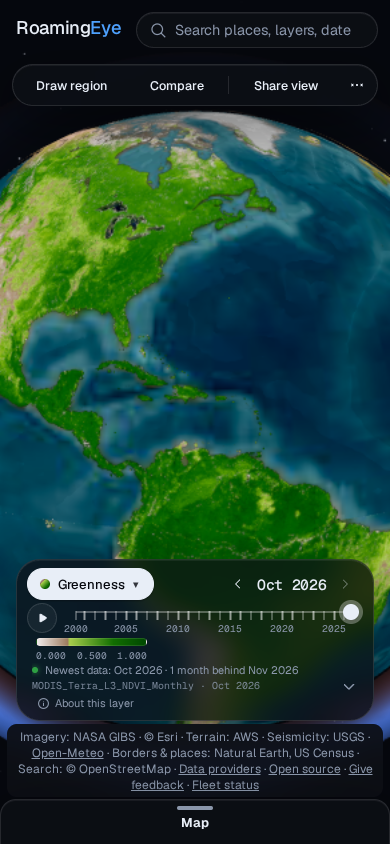
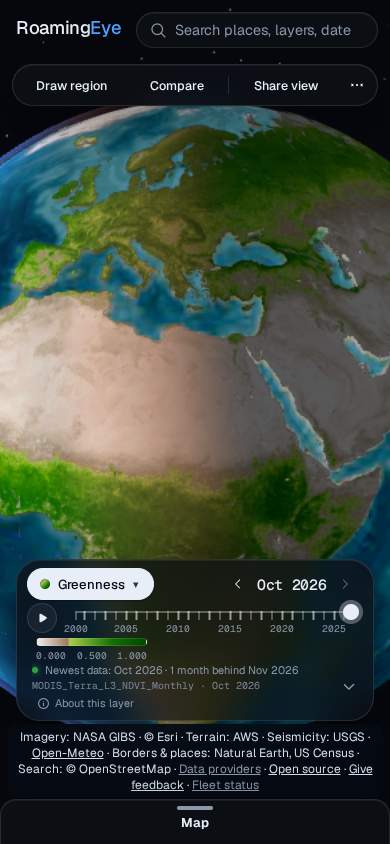
Keep the night side dark and seat the limb on the globe.
Twilight was a flat add, so on a dark green it encoded brighter than noon.
It now scales with the albedo, and the science night floor is the linear
value that reads as about 40% after sRGB, with a cool tint. The atmosphere
is a tight front shell using the view-ray fresnel, so the glow sits on the
limb. Black Marble is the sphere emissive map and only shows at night. The
credits use a dark plate because the canvas is space in both themes.

diff --git a/src/lib/realLight.ts b/src/lib/realLight.ts
@@ -18,13 +18,17 @@ export interface RgbUnit {
 /** Night side brightness as a fraction of the day-side albedo. Satellite base. */
 export const NIGHT_FLOOR = 0.25;
 /**
- * Gentler floor for a colormap. Dark enough that day and night read at a
- * glance, light enough that the ramp is still a ramp. The probe never uses it.
+ * Linear night floor for a colormap. 0.16 encodes to about 40% of the day
+ * side in sRGB, which is what a screenshot reads as. The probe never uses it.
  */
-export const SCIENCE_NIGHT_FLOOR = 0.4;
-/** Soft terminator, in ndotl. Below the low edge is night; above the high edge is day. */
-export const TERMINATOR_LO = -0.15;
-export const TERMINATOR_HI = 0.2;
+export const SCIENCE_NIGHT_FLOOR = 0.16;
+/**
+ * Soft terminator, in ndotl. About fifteen degrees of solar zenith, so the
+ * edge is a gradient rather than a cut. Below the low edge is night; above
+ * the high edge is day.
+ */
+export const TERMINATOR_LO = -0.22;
+export const TERMINATOR_HI = 0.32;
 /** Warm band around the terminator, in ndotl. */
 export const TWILIGHT_LO = -0.28;
 export const TWILIGHT_PEAK_LO = -0.04;
@@ -32,6 +36,8 @@ export const TWILIGHT_PEAK_HI = 0.04;
 export const TWILIGHT_HI = 0.22;
 export const TWILIGHT_COLOR: RgbUnit = { r: 1, g: 0.42, b: 0.16 };
 export const TWILIGHT_GAIN = 0.38;
+/** Night side of a colormap, slightly blue so it reads as shadow not fog. */
+export const NIGHT_TINT: RgbUnit = { r: 0.78, g: 0.88, b: 1 };
 /** Ocean glint. Thresholds are on linear albedo, matching the shader. */
 export const WATER_LUMA_LO = 0.05;
 export const WATER_LUMA_HI = 0.28;
@@ -70,6 +76,8 @@ export interface ShadeInput {
   nightLights?: RgbUnit;
   /** Defaults to the satellite floor. Science passes the gentler one. */
   nightFloor?: number;
+  /** Cool the night side. Science turns this on. Satellite imagery does not. */
+  coolNight?: boolean;
 }
 
 /**
@@ -85,9 +93,14 @@ export function displayRgb(
   const floor = input.nightFloor ?? NIGHT_FLOOR;
   const shade = floor + (1 - floor) * day;
   const lights = input.nightLights ?? { r: 0, g: 0, b: 0 };
+  const tint = (channel: number) =>
+    input.coolNight ? channel + (1 - channel) * day : 1;
   const twilight =
     smoothstep(TWILIGHT_LO, TWILIGHT_PEAK_LO, input.nDotL) *
     (1 - smoothstep(TWILIGHT_PEAK_HI, TWILIGHT_HI, input.nDotL));
+  // Scale the warm add by the albedo. A flat add of twilight on a dark
+  // colormap is brighter than noon once sRGB encodes it.
+  const twScale = Math.max(albedo.r, albedo.g, albedo.b);
   const glintOn = input.glint ?? 0;
   const spec =
     Math.pow(Math.max(input.nDotH ?? 0, 0), GLINT_POWER) *
@@ -98,20 +111,20 @@ export function displayRgb(
   const emissive = (input.nightEmissive ?? 0) * (1 - day);
   return {
     r:
-      albedo.r * shade +
-      TWILIGHT_COLOR.r * twilight * TWILIGHT_GAIN +
+      albedo.r * shade * tint(NIGHT_TINT.r) +
+      TWILIGHT_COLOR.r * twilight * TWILIGHT_GAIN * twScale +
       GLINT_COLOR.r * spec +
       emissive +
       lights.r * (1 - day),
     g:
-      albedo.g * shade +
-      TWILIGHT_COLOR.g * twilight * TWILIGHT_GAIN +
+      albedo.g * shade * tint(NIGHT_TINT.g) +
+      TWILIGHT_COLOR.g * twilight * TWILIGHT_GAIN * twScale +
       GLINT_COLOR.g * spec +
       0.93 * emissive +
       lights.g * (1 - day),
     b:
-      albedo.b * shade +
-      TWILIGHT_COLOR.b * twilight * TWILIGHT_GAIN +
+      albedo.b * shade * tint(NIGHT_TINT.b) +
+      TWILIGHT_COLOR.b * twilight * TWILIGHT_GAIN * twScale +
       GLINT_COLOR.b * spec +
       0.78 * emissive +
       lights.b * (1 - day),
@@ -123,16 +136,19 @@ export function realLightGlsl(): string {
   return /* glsl */ `
 const float RE_NIGHT_FLOOR = ${NIGHT_FLOOR};
 const float RE_SCIENCE_FLOOR = ${SCIENCE_NIGHT_FLOOR};
-vec3 reShade(vec3 albedo, vec3 sunWorld, float glintOn, float emissive, float nightFloor, vec3 nightLights, vec3 nrm, vec3 viewPos) {
+vec3 reShade(vec3 albedo, vec3 sunWorld, float glintOn, float emissive, float nightFloor, float coolNight, vec3 nightLights, vec3 nrm, vec3 viewPos) {
   vec3 sunV = normalize((viewMatrix * vec4(sunWorld, 0.0)).xyz);
   vec3 n = normalize(nrm);
   float ndl = dot(n, sunV);
   float day = smoothstep(${TERMINATOR_LO}, ${TERMINATOR_HI}, ndl);
   float shade = mix(nightFloor, 1.0, day);
+  vec3 tint = vec3(1.0);
+  if (coolNight > 0.5) tint = mix(vec3(${NIGHT_TINT.r}, ${NIGHT_TINT.g}, ${NIGHT_TINT.b}), vec3(1.0), day);
   float tw = smoothstep(${TWILIGHT_LO}, ${TWILIGHT_PEAK_LO}, ndl)
     * (1.0 - smoothstep(${TWILIGHT_PEAK_HI}, ${TWILIGHT_HI}, ndl));
-  vec3 color = albedo * shade;
-  color += vec3(${TWILIGHT_COLOR.r}, ${TWILIGHT_COLOR.g}, ${TWILIGHT_COLOR.b}) * tw * ${TWILIGHT_GAIN};
+  float twScale = max(albedo.r, max(albedo.g, albedo.b));
+  vec3 color = albedo * shade * tint;
+  color += vec3(${TWILIGHT_COLOR.r}, ${TWILIGHT_COLOR.g}, ${TWILIGHT_COLOR.b}) * tw * ${TWILIGHT_GAIN} * twScale;
   float luma = dot(albedo, vec3(0.2126, 0.7152, 0.0722));
   float blue = albedo.b - max(albedo.r, albedo.g);
   float water = (1.0 - smoothstep(${WATER_LUMA_LO}, ${WATER_LUMA_HI}, luma))

diff --git a/src/scene/realEarthMaterial.ts b/src/scene/realEarthMaterial.ts
@@ -133,12 +133,12 @@ if (uRealLight > 0.5) {
   if (reImageryCover <= 0.0 && reScienceCover <= 0.0) {
     imagery = diffuseColor.rgb;
   }
-  vec3 lit = reShade(imagery, uSunImagery, 1.0, uNightEmissive, RE_NIGHT_FLOOR, vec3(0.0), normal, vViewPosition);
+  vec3 lit = reShade(imagery, uSunImagery, 1.0, uNightEmissive, RE_NIGHT_FLOOR, 0.0, vec3(0.0), normal, vViewPosition);
   vec3 outc = lit;
   if (reScienceCover > 0.001) {
     vec3 sci = reScienceStraight / max(reScienceCover, 0.001);
     if (uScienceLight > 0.5) {
-      sci = reShade(sci, uSunScience, 0.0, 0.0, RE_SCIENCE_FLOOR, vec3(0.0), normal, vViewPosition);
+      sci = reShade(sci, uSunScience, 0.0, 0.0, RE_SCIENCE_FLOOR, 1.0, vec3(0.0), normal, vViewPosition);
     }
     outc = sci * reScienceCover + lit * (1.0 - reScienceCover);
   }
@@ -150,11 +150,10 @@ if (uRealLight > 0.5) {
 const SCIENCE_LIGHT = /* glsl */ `
 if (uRealLight > 0.5) {
   if (uScienceLight > 0.5) {
-    vec3 nightLights = vec3(0.0);
-    #ifdef USE_UV
-      if (uHasNight > 0.5) nightLights = texture2D(uNightMap, vMapUv).rgb * 1.8;
-    #endif
-    outgoingLight = reShade(diffuseColor.rgb, uSunScience, 0.0, 0.0, RE_SCIENCE_FLOOR, nightLights, normal, vViewPosition);
+    vec3 nightLights = totalEmissiveRadiance;
+    float city = smoothstep(0.05, 0.35, max(nightLights.r, max(nightLights.g, nightLights.b)));
+    nightLights *= city * 4.0;
+    outgoingLight = reShade(diffuseColor.rgb, uSunScience, 0.0, 0.0, RE_SCIENCE_FLOOR, 1.0, nightLights, normal, vViewPosition);
   } else {
     outgoingLight = diffuseColor.rgb;
   }
@@ -238,7 +237,7 @@ if (uRealLight > 0.5) {
   if (uScienceLight > 0.5) {
     vec3 nrm = normalize(mat3(viewMatrix) * normalize(vReWorld));
     vec3 viewPos = -(viewMatrix * vec4(vReWorld, 1.0)).xyz;
-    outgoingLight = reShade(diffuseColor.rgb, uSunScience, 0.0, 0.0, RE_SCIENCE_FLOOR, vec3(0.0), nrm, viewPos);
+    outgoingLight = reShade(diffuseColor.rgb, uSunScience, 0.0, 0.0, RE_SCIENCE_FLOOR, 1.0, vec3(0.0), nrm, viewPos);
   } else {
     outgoingLight = diffuseColor.rgb;
   }

diff --git a/src/lib/realLight.test.ts b/src/lib/realLight.test.ts
@@ -45,6 +45,50 @@ describe("displayRgb", () => {
     expect(noon).toEqual(albedo);
   });
 
+  it("spreads the terminator over a soft band", () => {
+    const green = { r: 0.05, g: 0.12, b: 0.02 };
+    const lum = (c: { r: number; g: number; b: number }) =>
+      0.2126 * c.r + 0.7152 * c.g + 0.0722 * c.b;
+    const steps = [-0.3, -0.1, 0.05, 0.2, 0.45].map((nDotL) =>
+      lum(
+        displayRgb(green, "shaded", {
+          nDotL,
+          nightFloor: SCIENCE_NIGHT_FLOOR,
+          coolNight: true,
+        })
+      )
+    );
+    for (let i = 1; i < steps.length; i++) {
+      expect(steps[i]).toBeGreaterThan(steps[i - 1]);
+    }
+  });
+
+  it("keeps a dark green darker at night and at the twilight band", () => {
+    const green = { r: 0.05, g: 0.12, b: 0.02 };
+    const lum = (c: { r: number; g: number; b: number }) =>
+      0.2126 * c.r + 0.7152 * c.g + 0.0722 * c.b;
+    const day = displayRgb(green, "shaded", {
+      nDotL: 1,
+      nightFloor: SCIENCE_NIGHT_FLOOR,
+      coolNight: true,
+    });
+    const night = displayRgb(green, "shaded", {
+      nDotL: -1,
+      nightFloor: SCIENCE_NIGHT_FLOOR,
+      coolNight: true,
+    });
+    const twilight = displayRgb(green, "shaded", {
+      nDotL: 0,
+      nightFloor: SCIENCE_NIGHT_FLOOR,
+      coolNight: true,
+    });
+    expect(lum(night)).toBeCloseTo(lum(green) * SCIENCE_NIGHT_FLOOR, 1);
+    expect(lum(night)).toBeLessThan(lum(day) * 0.55);
+    expect(lum(twilight)).toBeLessThan(lum(day));
+    expect(night.b / night.g).toBeGreaterThan(day.b / day.g);
+    expect(twilight.r).toBeGreaterThan(twilight.b);
+  });
+
   it("warms the terminator", () => {
     const gray = { r: 0.4, g: 0.4, b: 0.4 };
     const twilight = displayRgb(gray, "shaded", { nDotL: 0, glint: 0 });

diff --git a/src/scene/Sky.ts b/src/scene/Sky.ts
@@ -1,8 +1,8 @@
 import {
   AdditiveBlending,
-  BackSide,
   BufferAttribute,
   BufferGeometry,
+  FrontSide,
   Points,
   ShaderMaterial,
   Vector3,
@@ -57,10 +57,11 @@ const ATMOSPHERE_VERTEX = /* glsl */ `
   varying float vSun;
   uniform vec3 uSun;
   void main() {
-    vec3 radial = normalize(position);
-    vRim = 1.0 - abs(dot(radial, normalize(cameraPosition)));
-    vSun = dot(radial, normalize(uSun));
-    gl_Position = projectionMatrix * modelViewMatrix * vec4(position, 1.0);
+    vec3 n = normalize(normalMatrix * normal);
+    vec4 mv = modelViewMatrix * vec4(position, 1.0);
+    vRim = 1.0 - abs(dot(n, normalize(-mv.xyz)));
+    vSun = dot(normalize(position), normalize(uSun));
+    gl_Position = projectionMatrix * mv;
   }
 `;
 
@@ -78,9 +79,10 @@ export function mountScattering(mesh: Mesh): AtmosphereLight {
   const sun = new Vector3(1, 0.15, 0.35);
   const material = new ShaderMaterial({
     transparent: true,
-    side: BackSide,
+    side: FrontSide,
     blending: AdditiveBlending,
     depthWrite: false,
+    depthTest: false,
     toneMapped: false,
     uniforms: {
       uSun: { value: sun },

diff --git a/src/style.css b/src/style.css
@@ -605,7 +605,9 @@ body {
 .attribution {
   margin-top: 0.35rem;
   font-size: 0.75rem;
-  color: var(--muted);
+  /* The canvas is space in both themes, so the credits use light ink on a
+     dark plate instead of the light theme's dark-on-white pair. */
+  color: #d5deea;
   /* Shrink the row's box to the credits it holds instead of the overlay's full
      width. The text was always centred, so nothing moves; what changes is that
      the plate below can hug the line rather than slab the whole footer. This is
@@ -653,7 +655,7 @@ body {
   inset: -0.3rem -0.55rem;
   z-index: -1;
   border-radius: 10px;
-  background: var(--panel-bg-strong);
+  background: rgba(6, 10, 18, 0.88);
   backdrop-filter: var(--material-blur);
 }
 
@@ -670,7 +672,7 @@ body {
 }
 
 .attribution a {
-  color: var(--muted);
+  color: #d5deea;
   pointer-events: auto; /* keep the link clickable */
 }
 

diff --git a/src/scene/Sun.ts b/src/scene/Sun.ts
@@ -8,6 +8,7 @@ import {
   type Mesh,
   type Object3D,
   type Scene,
+  type MeshStandardMaterial,
   type Texture,
   type WebGLRenderer,
 } from "three";
@@ -162,8 +163,10 @@ export function attachSun(hooks: SunHooks): SunHandle {
       uniforms.uNightEmissive.value = value;
     },
     setNightMap(texture) {
-      uniforms.uNightMap.value = texture;
-      uniforms.uHasNight.value = 1;
+      const material = hooks.earthMaterial as MeshStandardMaterial;
+      material.emissive.set(1, 1, 1);
+      material.emissiveMap = texture;
+      material.needsUpdate = true;
     },
     illumination: () => snapshot,
   };

diff --git a/src/overlays/AtmosphereOverlay.ts b/src/overlays/AtmosphereOverlay.ts
@@ -22,7 +22,7 @@ export class AtmosphereOverlay implements MapOverlay {
   readonly object: Mesh;
   readonly defaultOn = true;
 
-  constructor(radius = GLOBE_RADIUS * 1.16) {
+  constructor(radius = GLOBE_RADIUS * 1.012) {
     const material = new ShaderMaterial({
       transparent: true,
       side: BackSide,

diff --git a/src/lib/scatter.ts b/src/lib/scatter.ts
@@ -9,7 +9,7 @@
 
 export const RAYLEIGH = [0.3, 0.52, 1] as const;
 export const WARM = [1, 0.42, 0.22] as const;
-export const RIM_POWER = 2.4;
+export const RIM_POWER = 3.6;
 export const DAY_LO = -0.08;
 export const DAY_HI = 0.4;
 export const NIGHT_LO = -0.6;

diff --git a/docs/real-earth-preview/README.md b/docs/real-earth-preview/README.md
@@ -27,12 +27,14 @@ first visit in the light theme looked like a pale card. These later frames are
 the default visit: Greenness, 15 Oct 2026, camera over the Americas, clock
 frozen at 15 Nov 2026 16:30 UTC.
 
-Day and night are on for data layers by default. The probe still reads the
-unshaded colormap. The night side of the science sphere picks up NASA Black
-Marble (VIIRS, 2016) after the sun chunk loads. Stars and the scattering limb
-are in both themes, and the canvas is space in both, so the globe is not a
-card. AgX grades the satellite mesh only. The wordmark stays light because it
-sits on that canvas.
+Day and night are on for data layers by default. The night floor is 0.16 in
+linear light, which encodes to about 40% of the day side in sRGB, with a
+slight cool tint. Twilight is scaled by the albedo so a dark green is not
+bleached tan. The probe still reads the unshaded colormap. The limb is a
+shell 1.2% larger than the globe, drawn with the view-ray fresnel so it hugs
+the edge. NASA Black Marble (VIIRS, 2016) is the sphere's emissive map and
+shows only on the night side, after the sun chunk loads. The credits sit on
+a dark plate with light text in both themes, because the canvas is space.
 
 Desktop is 1440x900. Phone is 390x844. `terminator.gif` steps the same view
 through 24 hours, two hours a frame, on 15 Oct 2026.
